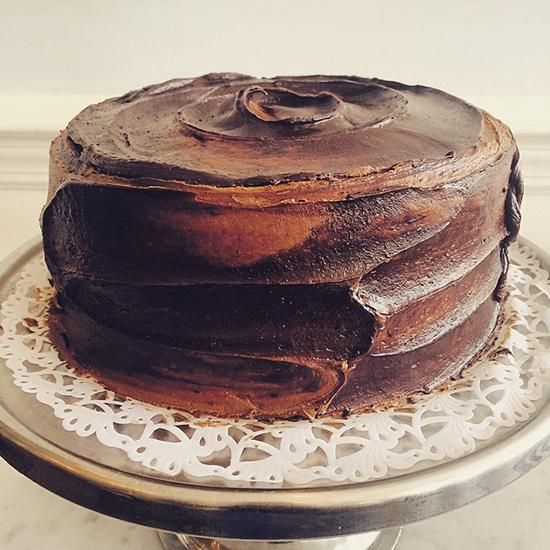
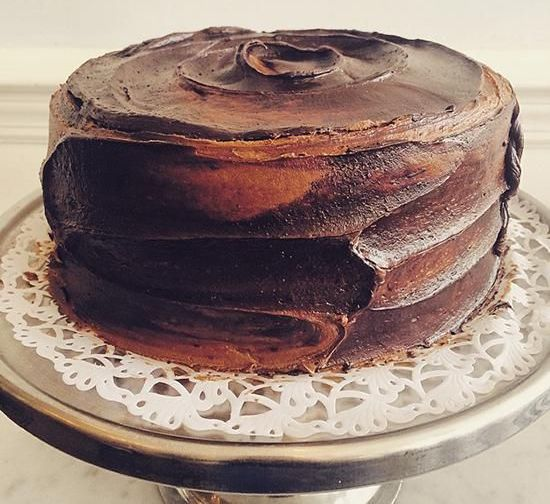
add individual header photos for each baked good type. Style each photo for individual items. Other styles

diff --git a/public/main.css b/public/main.css
@@ -18,6 +18,7 @@ div.nav-wrapper {
   background-color: transparent; }
 
 .title {
+  margin: 0 0.9%;
   text-shadow: 0px 4px 3px rgba(0, 0, 0, 0.4), 0px 8px 9px black, 0px 9px 22px rgba(255, 255, 255, 0.7); }
 
 .carousel .carousel-item {
@@ -27,5 +28,14 @@ div.nav-wrapper {
 .carousel .carousel-item .carousel-pic {
   height: 80%;
   width: auto; }
+
+div#nav-container2 {
+  height: 25%; }
+
+div#nav-wrapper2 {
+  height: 25%; }
+
+nav#nav2 {
+  height: 100%; }
 
 /*# sourceMappingURL=main.css.map */

diff --git a/public/main.scss b/public/main.scss
@@ -26,6 +26,7 @@ div.nav-wrapper {
 }
 
 .title {
+  margin: 0 0.9%;
   text-shadow: 0px 4px 3px rgba(0, 0, 0, 0.4), 
                0px 8px 9px black, 
                0px 9px 22px rgba(255, 255, 255, 0.7)
@@ -39,6 +40,18 @@ div.nav-wrapper {
 .carousel .carousel-item .carousel-pic {
   height: 80%;
   width: auto;
+}
+
+div#nav-container2 {
+  height: 25%;
+}
+
+div#nav-wrapper2 {
+  height: 25%;
+}
+
+nav#nav2 {
+  height: 100%;
 }
 
 

diff --git a/models.rb b/models.rb
@@ -81,15 +81,15 @@ class Bakery
 
 end
 
-oatmeal = Cookie.new("Oatmeal Raisin", "A classic oatmeal raisin cookie with hints of browned butter, dark rum and cinnamon with a chewy texture. Packed with minced walnuts and raisins.", "oatmeal.jpeg")
+oatmeal = Cookie.new("Oatmeal Raisin", "A classic oatmeal raisin cookie with hints of browned butter, dark rum and cinnamon with a chewy texture. Packed with minced walnuts and raisins.", "oatmeal6.jpg")
 
 chocolate_chip = Cookie.new("Chocolate Chip", "Not your mother's tollhouse - this chocolate chip cookie is made with dark chocolate chips with a soft texture that will melt in the mouth and finished with course sea salt.", "chocolatechip.jpeg")
 
-family_cake = Cake.new("Summer Cake", "A family recipe - the cake itself is flavored with a dry Chardonnay, layered with fresh berries and vanilla custard, and encased in fresh whipped cream. It's light and subtle, and not too sweet.", "familycake.jpg")
+family_cake = Cake.new("Summer Cake", "A family recipe - the cake itself is flavored with a dry Chardonnay, layered with fresh berries and vanilla custard, and encased in fresh whipped cream. It's light and subtle, and not too sweet.", "family3.jpg")
 
-apple_cake = Cake.new("Apple Bundt Cake", "The kind of cake one can eat guiltlessly for breakfast (or any time of day). This rustic budnt has three layers of cinnamon-spiced apples hiding within cake which is subtly flavored with the barest hint of citrus. Dairy-free.", "apple.jpg", "$6.50")
+apple_cake = Cake.new("Apple Bundt Cake", "The kind of cake one can eat guiltlessly for breakfast (or any time of day). This rustic budnt has three layers of cinnamon-spiced apples hiding within cake which is subtly flavored with the barest hint of citrus. Dairy-free.", "apple1.jpg", "$6.50")
 
-blackout = Cake.new("Brooklyn Blackout Cake", "A Brooklyn classic handed down through the ages. Ebinger's recipe has been recreated many times - but if any can hold a candle to the original remains a contentious topic. We gave it our all though; and if it's not quite as good as your memories of the classic (and when is it ever?) - at least you still have cake. A three-tiered devil’s food cake layered with chocolate pudding, slicked with dark chocolate frosting, and topped with additional devil’s food crumbs.", "blackout.jpg")
+blackout = Cake.new("Brooklyn Blackout Cake", "A Brooklyn classic handed down through the ages. Ebinger's recipe has been recreated many times - but if any can hold a candle to the original remains a contentious topic. We gave it our all though; and if it's not quite as good as your memories of the classic (and when is it ever?) - at least you still have cake. A three-tiered devil’s food cake layered with chocolate pudding, slicked with dark chocolate frosting, and topped with additional devil’s food crumbs.", "blackout2.jpg")
 
 lemon_poppy = Muffin.new("Lemon-Poppyseed Muffin", "In every diner across the country, lemon poppy-seed muffins are ubiquitous, and easy to love. Buttery and soft, tart and sweet, they are soothing in their simplicity, while seeds add just a bit of crunch. This version gets a healthy dose of lemony tang thanks to an ample amount of grated zest and a zippy lemon-juice glaze.", "lemon.jpg")
 
